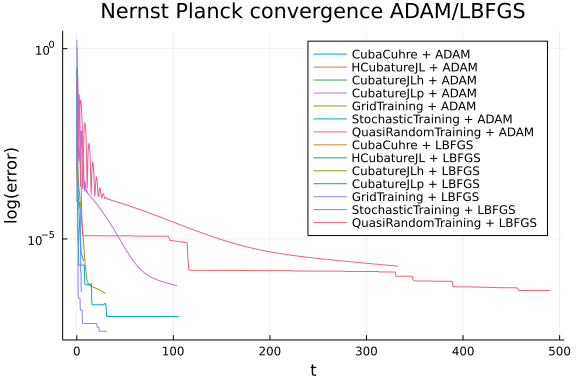
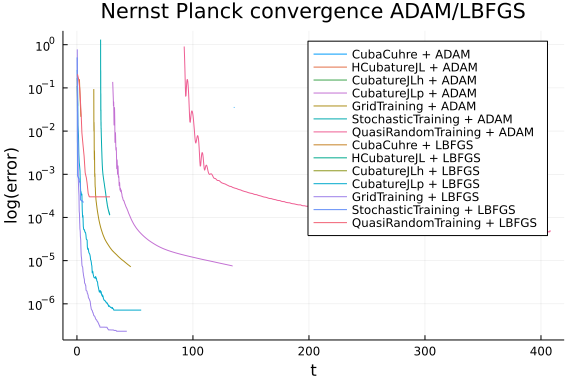
Automatic build\nPublished by build of: https://github.com/SciML/SciMLBenchmarks.jl/commit/61c047455ef7845709acad38f267d75462b74631

diff --git a/markdown/PINNErrorsVsTime/nernst_planck_et.md b/markdown/PINNErrorsVsTime/nernst_planck_et.md
@@ -85,7 +85,7 @@ function nernst_planck(strategy, minimizer, maxIters)
     ## NEURAL NETWORK
     n = 16   #neuron number
 
-    chain = Lux.Chain(Lux.Dense(4,n,Lux.σ),Lux.Dense(n,n,Lux.σ),Lux.Dense(n,1))   #Neural network from OptimizationFlux library
+    chain = Lux.Chain(Lux.Dense(4,n,tanh),Lux.Dense(n,n,tanh),Lux.Dense(n,1))   #Neural network from OptimizationFlux library
 
     indvars = [t,x,y,z]   #independent variables
     depvars = [c(t,x,y,z)]       #dependent (target) variable
@@ -268,7 +268,7 @@ Environment:
 Package Information:
 
 ```
-      Status `/cache/build/exclusive-amdci1-0/julialang/scimlbenchmarks-dot-jl/benchmarks/PINNErrorsVsTime/Project.toml`
+      Status `/cache/build/exclusive-amdci3-0/julialang/scimlbenchmarks-dot-jl/benchmarks/PINNErrorsVsTime/Project.toml`
   [de52edbc] Integrals v3.1.1
   [e00cd5f1] IntegralsCuba v0.2.0
   [c31f79ba] IntegralsCubature v0.2.0
@@ -287,7 +287,7 @@ Package Information:
 And the full manifest:
 
 ```
-      Status `/cache/build/exclusive-amdci1-0/julialang/scimlbenchmarks-dot-jl/benchmarks/PINNErrorsVsTime/Manifest.toml`
+      Status `/cache/build/exclusive-amdci3-0/julialang/scimlbenchmarks-dot-jl/benchmarks/PINNErrorsVsTime/Manifest.toml`
   [c3fe647b] AbstractAlgebra v0.27.2
   [621f4979] AbstractFFTs v1.2.1
   [1520ce14] AbstractTrees v0.4.2
